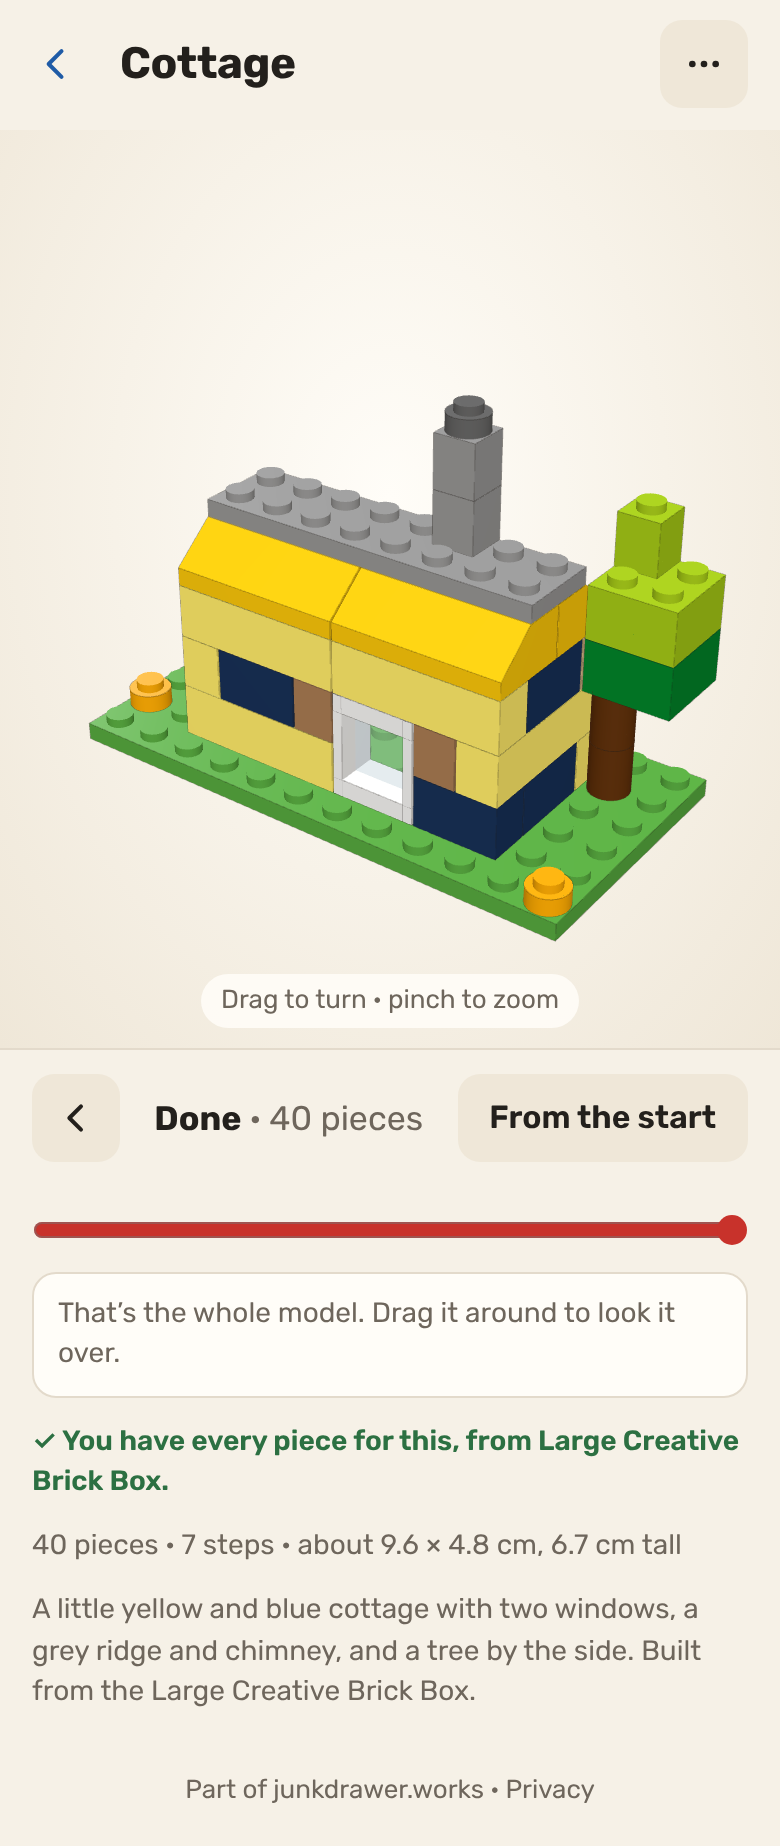
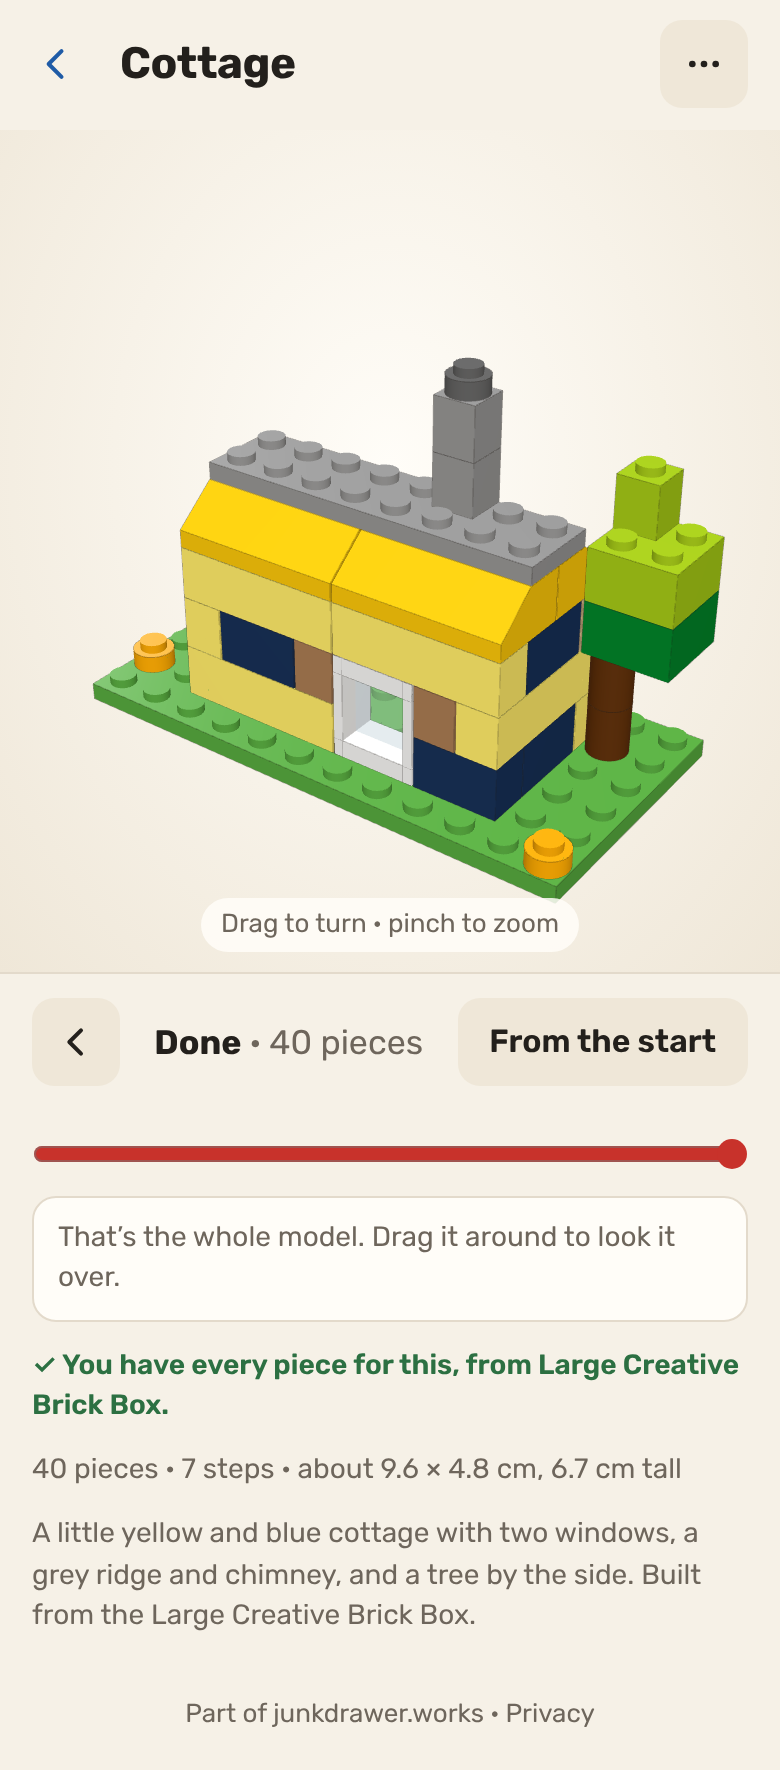
Bring a step's pieces into view under the picture on a phone
The 3D picture was 58% of the tall screen (vh), which on an iPhone with
Safari's bars up (390 x 664 showing) is 385 px, and the list of pieces
to find under it was one column until the screen was 388 px wider than
a phone is. At that size one of the three kinds of piece in the
cottage's second step was whole on the screen, and at the full 844,
four of the last step's six.

The picture is now half the screen that's showing (50svh, still 460 px
at most; the vh line stays for a browser without svh), and on a screen
up to 600 px wide the list is in two columns: three of three and six
of six in those two steps. That makes the picture shorter on a phone,
422 px where it was 460 at 844 tall, and 400 where it was 460 on a
laptop 800 tall. Wider screens keep their three columns, All the
pieces stays one column, and so does a screen 300 px wide. The README's
picture of the builder is redrawn.

Claude-Session: https://claude.ai/code/session_01PQbLNUuiByHEfTthSk1RFs

diff --git a/css/app.css b/css/app.css
@@ -272,7 +272,10 @@ a.item { color: inherit; text-decoration: none; }
 .note.warn { color: var(--red-text); font-weight: 600; }
 .note.warn:empty { margin: 0; }
 .note.ok { color: color-mix(in srgb, var(--ink) 25%, var(--green)); font-weight: 600; }
-.stage { position: relative; height: min(58vh, 460px); background: radial-gradient(ellipse at 50% 40%, var(--card), var(--soft)); border-bottom: 1px solid var(--line); touch-action: none; }
+/* Half the screen that's showing, so the pieces to find are in view under the picture on a phone: with Safari's bars
+   up, 58% of the tall screen left 214 px for the step's buttons and its list (svh is the screen with the bars up;
+   the vh line is for a browser without it). */
+.stage { position: relative; height: min(58vh, 460px); height: min(50svh, 460px); background: radial-gradient(ellipse at 50% 40%, var(--card), var(--soft)); border-bottom: 1px solid var(--line); touch-action: none; }
 .stage canvas { width: 100%; height: 100%; display: block; cursor: grab; }
 .stage canvas:active { cursor: grabbing; }
 .stage canvas:focus-visible { outline: 2px solid var(--blue); outline-offset: -4px; }
@@ -295,7 +298,10 @@ a.item { color: inherit; text-decoration: none; }
 #step-range { display: block; width: 100%; height: 44px; accent-color: var(--red); margin: 8px 0 -1px; }
 .callout { background: var(--card); border: 1px solid var(--line); border-radius: 12px; padding: 10px 12px; margin-bottom: 12px; }
 .callout .lbl { margin-bottom: 6px; }
-ul.need { list-style: none; margin: 0; padding: 0; display: grid; gap: 8px; grid-template-columns: repeat(auto-fill, minmax(190px, 1fr)); }
+ul.need { list-style: none; margin: 0; padding: 0; display: grid; gap: 8px 10px; grid-template-columns: repeat(auto-fill, minmax(190px, 1fr)); }
+/* Two columns on a phone: it was one until the screen was 388 px wider than a phone is, so a step's pieces ran off
+   the bottom of the screen. (A wider screen keeps its three wider columns, where a long name takes two lines.) */
+@media (max-width: 600px) { ul.need { grid-template-columns: repeat(auto-fill, minmax(140px, 1fr)); } }
 ul.need.wide { grid-template-columns: 1fr; }
 ul.need li { display: flex; gap: 10px; align-items: center; line-height: 1.25; }
 ul.need i { flex: none; width: 30px; height: 20px; border-radius: 4px; box-shadow: inset 0 -3px 0 rgba(0, 0, 0, .18), 0 0 0 1px rgba(0, 0, 0, .15); }

diff --git a/sw.js b/sw.js
@@ -8,7 +8,7 @@
 // fingerprint of every file in SHELL: change any of them and test/e2e.mjs fails until FILES is changed to match (it
 // says what to), which changes this file, so every copy is made whole again at once.
 const CACHE = 'brickyard-v6'; // bump the number when the file list changes
-const FILES = '22b71482'; // test/e2e.mjs checks this
+const FILES = 'dfd0ccb3'; // test/e2e.mjs checks this
 const SHELL = [
   './', 'index.html', 'css/app.css', 'js/core.js', 'js/shelf-core.js', 'js/app.js', 'js/shelves.js', 'js/sync.js', 'js/build-core.js', 'js/build.js',
   'js/vendor/three.module.js', 'js/vendor/three.core.js', 'js/vendor/OrbitControls.js',
